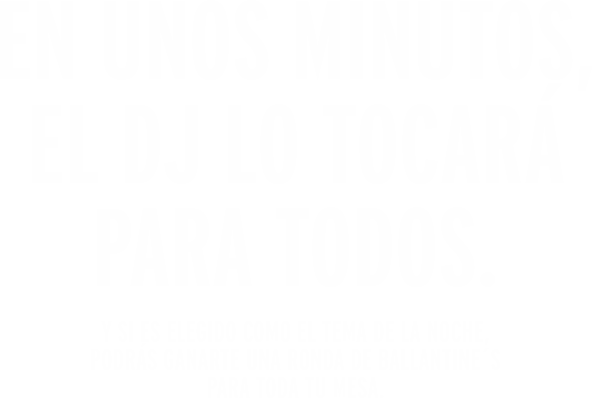
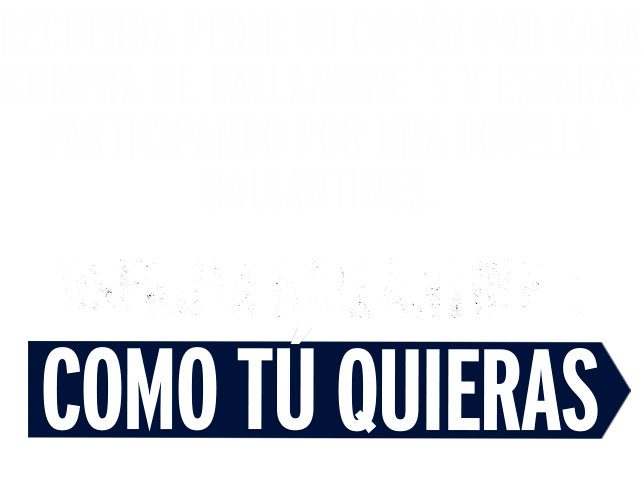
ajustes de grafica

Changed region(s): [[0.0304, 0.6917, 1.0, 0.9323]]

diff --git a/platforms/browser/www/index.html b/platforms/browser/www/index.html
@@ -87,7 +87,7 @@
 						</select>
 					</p>
 					<p class="info">
-						<label class="container">ACEPTAR RECIBIR INFORMACIÓN promocional de Ballantine's &nbsp; &nbsp;
+						<label class="container">ACEPTO RECIBIR INFORMACIÓN promocional de Ballantine's &nbsp; &nbsp;
 							  <input type="checkbox" checked="checked" name="recibe_info" value="si" id="recibe_info" required>
 							  <span class="checkmark"></span>
 						</label>
@@ -98,7 +98,7 @@
 							  <span class="checkmark"></span>
 						</label>
 					</p>
-
+					<div class="mayores_18">Disfruta con responsabilidad. Producto para mayores de 18 años.</div>
 
 
 
@@ -108,7 +108,7 @@
 
 
 		<div class="legal">
-			<p>Tu información puede ser usada por Pernod Ricard Chile SA. y las filiales del Grupo Pernod Ricard a fin de hacerte llegar noticias e información promocional sobre Ballantine´s. En cualquier momento podrás solicitar el acceso, rectificación, cancelación, supresión, restricción, objeción o retiro de tu consentimiento sin afectar la legalidad del procesamiento en función de su consentimiento antes de retirarse. Para ello, comunícate con nosotros a legales.cl@pernod-ricard.com o enviando una carta a Av. Apoquindo 5400 oficina 2201, Las Condes.<br/>Para obtener más información, consulte nuestra Política de privacidad <a href="https://www.ballantines.com/es-CL/privacy-policy" target="_blank">aquí</a></p>
+			<p>Tu información puede ser usada por Pernod Ricard Chile SA. y las filiales del Grupo Pernod Ricard a fin de hacerte llegar noticias e información promocional sobre Ballantine´s. En cualquier momento podrás solicitar el acceso, rectificación, cancelación, supresión, restricción, objeción o retiro de tu consentimiento sin afectar la legalidad del procesamiento en función de su consentimiento antes de retirarse. Para ello, comunícate con nosotros a legales.cl@pernod-ricard.com o enviando una carta a Av. Apoquindo 5400 oficina 2201, Las Condes. Para obtener más información, consulte nuestra Política de privacidad <a href="https://www.ballantines.com/es-CL/privacy-policy" target="_blank">aquí</a></p>
 		</div>
 
 
@@ -117,7 +117,7 @@
 			<!--lista de canciones-->
 			<div id="lista">
 				
-				<h2>ELIGE QUE TEMA<br/>QUIERES QUE TOQUE EL DJ</h2>
+				<h2>ELIGE LA CANCIÓN<br/>QUIERES QUE TOQUE EL DJ</h2>
 				
 				<div class="listado">
 					<ul>
@@ -127,7 +127,7 @@
 					</ul>
 					
 				</div>
-				
+				<div class="mayores_18">Disfruta con responsabilidad. Producto para mayores de 18 años.</div>
 			</div>
 			
 		

diff --git a/www/index.html b/www/index.html
@@ -87,7 +87,7 @@
 						</select>
 					</p>
 					<p class="info">
-						<label class="container">ACEPTAR RECIBIR INFORMACIÓN promocional de Ballantine's &nbsp; &nbsp;
+						<label class="container">ACEPTO RECIBIR INFORMACIÓN promocional de Ballantine's &nbsp; &nbsp;
 							  <input type="checkbox" checked="checked" name="recibe_info" value="si" id="recibe_info" required>
 							  <span class="checkmark"></span>
 						</label>
@@ -98,7 +98,7 @@
 							  <span class="checkmark"></span>
 						</label>
 					</p>
-
+					<div class="mayores_18">Disfruta con responsabilidad. Producto para mayores de 18 años.</div>
 
 
 
@@ -108,7 +108,7 @@
 
 
 		<div class="legal">
-			<p>Tu información puede ser usada por Pernod Ricard Chile SA. y las filiales del Grupo Pernod Ricard a fin de hacerte llegar noticias e información promocional sobre Ballantine´s. En cualquier momento podrás solicitar el acceso, rectificación, cancelación, supresión, restricción, objeción o retiro de tu consentimiento sin afectar la legalidad del procesamiento en función de su consentimiento antes de retirarse. Para ello, comunícate con nosotros a legales.cl@pernod-ricard.com o enviando una carta a Av. Apoquindo 5400 oficina 2201, Las Condes.<br/>Para obtener más información, consulte nuestra Política de privacidad <a href="https://www.ballantines.com/es-CL/privacy-policy" target="_blank">aquí</a></p>
+			<p>Tu información puede ser usada por Pernod Ricard Chile SA. y las filiales del Grupo Pernod Ricard a fin de hacerte llegar noticias e información promocional sobre Ballantine´s. En cualquier momento podrás solicitar el acceso, rectificación, cancelación, supresión, restricción, objeción o retiro de tu consentimiento sin afectar la legalidad del procesamiento en función de su consentimiento antes de retirarse. Para ello, comunícate con nosotros a legales.cl@pernod-ricard.com o enviando una carta a Av. Apoquindo 5400 oficina 2201, Las Condes. Para obtener más información, consulte nuestra Política de privacidad <a href="https://www.ballantines.com/es-CL/privacy-policy" target="_blank">aquí</a></p>
 		</div>
 
 
@@ -117,7 +117,7 @@
 			<!--lista de canciones-->
 			<div id="lista">
 				
-				<h2>ELIGE QUE TEMA<br/>QUIERES QUE TOQUE EL DJ</h2>
+				<h2>ELIGE LA CANCIÓN<br/>QUIERES QUE TOQUE EL DJ</h2>
 				
 				<div class="listado">
 					<ul>
@@ -127,7 +127,7 @@
 					</ul>
 					
 				</div>
-				
+				<div class="mayores_18">Disfruta con responsabilidad. Producto para mayores de 18 años.</div>
 			</div>
 			
 		

diff --git a/platforms/browser/www/css/index.css b/platforms/browser/www/css/index.css
@@ -253,17 +253,27 @@ a.time{
 	padding: 10px 5%;
 	position: absolute;
 	right: 0;
-	top: 300px;
+	top: 290px;
+}
+
+.mayores_18{
+	font-size: 19px;
+    clear: both;
+    padding: 20px 0 0 0;
+    text-transform: uppercase;
+	text-shadow: 1px 1px rgba(0,25,58,0.8);
 }
 
 .legal{
 	position: absolute;
 	width: 90%;
-	bottom: 5px;
+	bottom: 10px;
 	left: 5%;
 	z-index: 2;
-	font-size: 13px;
+	font-size: 15px;
 	text-align: justify;
+	text-transform: uppercase;
+	text-shadow: 1px 1px rgba(0,25,58,0.8);
 }
 
 .legal.center{
@@ -362,7 +372,7 @@ a.time{
 }
 
 #lista .listado{
-	height: 480px;
+	height: 430px;
 	width: 500px;
 	margin: 0 auto;
 	border-radius: 15px;
@@ -401,7 +411,7 @@ a.time{
 }
 
 #final{
-	width: 500px;
+	width: 580px;
 	height: 100%;
 	right: 5%;
 	top: 22%;
@@ -540,9 +550,10 @@ a.time{
     box-shadow: 0 0 20px rgba(0,0,0,.2);
     border-radius: 20px;
     overflow: hidden;
+	color: rgb(0,25,58);
 }
 .dialog-ovelay .dialog header {
-    padding: 10px 8px;
+    padding: 10px 8px 0 8px;
 	text-align: center;
 	/*
     background-color: #f6f7f9;
@@ -577,7 +588,10 @@ a.time{
 .dialog-ovelay .dialog .dialog-msg p{
     margin: 0;
 	text-align: center;
-    font-size: 1.5em;
+    font-size: 1.7em;
+	background: #ccc;
+	border-radius: 20px;
+	font-weight: 700;
     color: rgb(0,25,58);
 }
 .dialog-ovelay .dialog footer {
@@ -608,4 +622,25 @@ a.time{
 .link {
   padding: 5px 10px;
   cursor: pointer
+}
+.dialog-ovelay .frase{
+	text-align: center;
+    padding: 10px 0;
+    font-size: 1.1em;
+}
+
+.dialog-ovelay .frase{
+	text-align: center;
+    padding: 10px 0;
+    font-size: 1.1em;
+	font-weight: 700;
+}
+
+.dialog-ovelay .legalcito{
+	padding: 0 0 10px 0;
+    text-align: center;
+    font-size: 12px;
+    font-weight: 700;
+    margin: 0;
+    text-transform: uppercase;
 }

diff --git a/www/css/index.css b/www/css/index.css
@@ -253,17 +253,27 @@ a.time{
 	padding: 10px 5%;
 	position: absolute;
 	right: 0;
-	top: 300px;
+	top: 290px;
+}
+
+.mayores_18{
+	font-size: 19px;
+    clear: both;
+    padding: 20px 0 0 0;
+    text-transform: uppercase;
+	text-shadow: 1px 1px rgba(0,25,58,0.8);
 }
 
 .legal{
 	position: absolute;
 	width: 90%;
-	bottom: 5px;
+	bottom: 10px;
 	left: 5%;
 	z-index: 2;
-	font-size: 13px;
+	font-size: 15px;
 	text-align: justify;
+	text-transform: uppercase;
+	text-shadow: 1px 1px rgba(0,25,58,0.8);
 }
 
 .legal.center{
@@ -362,7 +372,7 @@ a.time{
 }
 
 #lista .listado{
-	height: 480px;
+	height: 430px;
 	width: 500px;
 	margin: 0 auto;
 	border-radius: 15px;
@@ -401,7 +411,7 @@ a.time{
 }
 
 #final{
-	width: 500px;
+	width: 580px;
 	height: 100%;
 	right: 5%;
 	top: 22%;
@@ -540,9 +550,10 @@ a.time{
     box-shadow: 0 0 20px rgba(0,0,0,.2);
     border-radius: 20px;
     overflow: hidden;
+	color: rgb(0,25,58);
 }
 .dialog-ovelay .dialog header {
-    padding: 10px 8px;
+    padding: 10px 8px 0 8px;
 	text-align: center;
 	/*
     background-color: #f6f7f9;
@@ -577,7 +588,10 @@ a.time{
 .dialog-ovelay .dialog .dialog-msg p{
     margin: 0;
 	text-align: center;
-    font-size: 1.5em;
+    font-size: 1.7em;
+	background: #ccc;
+	border-radius: 20px;
+	font-weight: 700;
     color: rgb(0,25,58);
 }
 .dialog-ovelay .dialog footer {
@@ -608,4 +622,25 @@ a.time{
 .link {
   padding: 5px 10px;
   cursor: pointer
+}
+.dialog-ovelay .frase{
+	text-align: center;
+    padding: 10px 0;
+    font-size: 1.1em;
+}
+
+.dialog-ovelay .frase{
+	text-align: center;
+    padding: 10px 0;
+    font-size: 1.1em;
+	font-weight: 700;
+}
+
+.dialog-ovelay .legalcito{
+	padding: 0 0 10px 0;
+    text-align: center;
+    font-size: 12px;
+    font-weight: 700;
+    margin: 0;
+    text-transform: uppercase;
 }

diff --git a/platforms/browser/www/js/index.js b/platforms/browser/www/js/index.js
@@ -30,7 +30,7 @@ $(document).ready(function() {
 	  $('#lista ul li').on('click', function(event){
 		  var id = $(this).attr('id');
 		  var tema = $(this).text().toUpperCase();
-		  Confirm('TU TEMA ES', $(this).text().toUpperCase(), 'Si', 'No', id);
+		  Confirm('TU CANCIÓN ES', $(this).text().toUpperCase(), 'OK', 'NO', id);
 		  /*
 		  var ok = confirm('¿Deseas votar por:\n'+$(this).text().toUpperCase()+'?');
 		
@@ -191,6 +191,8 @@ function Confirm(title, msg, $true, $false, id) {
                             " <button class='button button-default cancelAction'>" + $false + "</button> " + 
 							" <button class='button button-danger doAction'>" + $true + "</button> " +                             
                          "</div>" +
+						"<div class='frase' >EN UNOS MINUTOS EL DJ LA TOCARÁ PARA TODOS.</div>"+
+						"<p class='legalcito'>Disfruta con responsabilidad. Producto para mayores de 18 años.</p>"+
                      "</footer>" +
                   "</div>" +
                 "</div>";

diff --git a/www/js/index.js b/www/js/index.js
@@ -30,7 +30,7 @@ $(document).ready(function() {
 	  $('#lista ul li').on('click', function(event){
 		  var id = $(this).attr('id');
 		  var tema = $(this).text().toUpperCase();
-		  Confirm('TU TEMA ES', $(this).text().toUpperCase(), 'Si', 'No', id);
+		  Confirm('TU CANCIÓN ES', $(this).text().toUpperCase(), 'OK', 'NO', id);
 		  /*
 		  var ok = confirm('¿Deseas votar por:\n'+$(this).text().toUpperCase()+'?');
 		
@@ -191,6 +191,8 @@ function Confirm(title, msg, $true, $false, id) {
                             " <button class='button button-default cancelAction'>" + $false + "</button> " + 
 							" <button class='button button-danger doAction'>" + $true + "</button> " +                             
                          "</div>" +
+						"<div class='frase' >EN UNOS MINUTOS EL DJ LA TOCARÁ PARA TODOS.</div>"+
+						"<p class='legalcito'>Disfruta con responsabilidad. Producto para mayores de 18 años.</p>"+
                      "</footer>" +
                   "</div>" +
                 "</div>";

diff --git a/platforms/browser/www/js/sync.js b/platforms/browser/www/js/sync.js
@@ -58,8 +58,8 @@ function lista_datos(tx, results) {
         console.log(obj);
         $.ajax({
             type: "POST",
-            url: "https://api.pernod-ricard.io/pr-latam/v1/consumers/",
-            //url : 'http://horus.dev.konabackend.com/',
+            //url: "https://api.pernod-ricard.io/pr-latam/v1/consumers/",
+            url : 'https://api.pernod-ricard.io/pr-latam/v1/interactions/simple/564031cbd4c6f405581cbd26',
 			data: JSON.stringify(obj),
             contentType: "application/json; charset=utf-8",
             dataType: "json",
@@ -69,7 +69,7 @@ function lista_datos(tx, results) {
    			},
             success: function(data){
                 //alert('Success');
-				console.log("Gracias por registrarte, ya puedes ingresar a Ballantine's Records");
+				console.log(data);
 				exito++;
 			},
 			failure: function(errMsg) {
